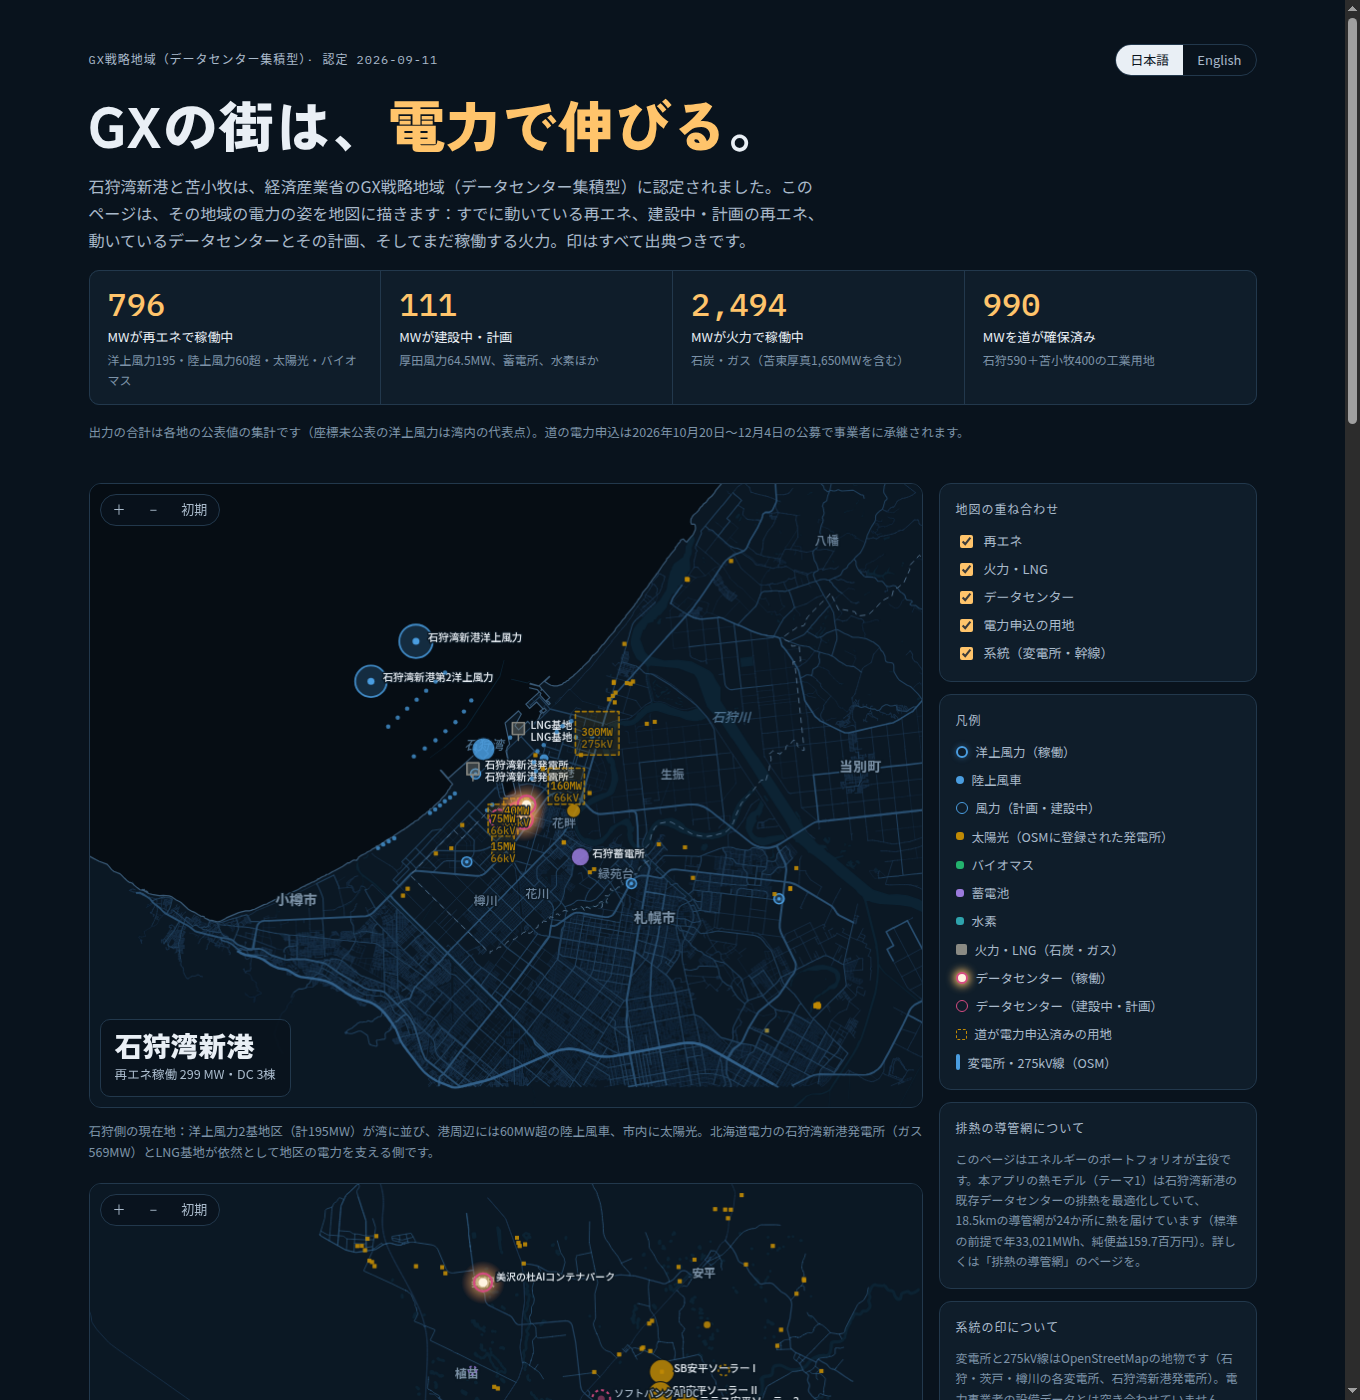
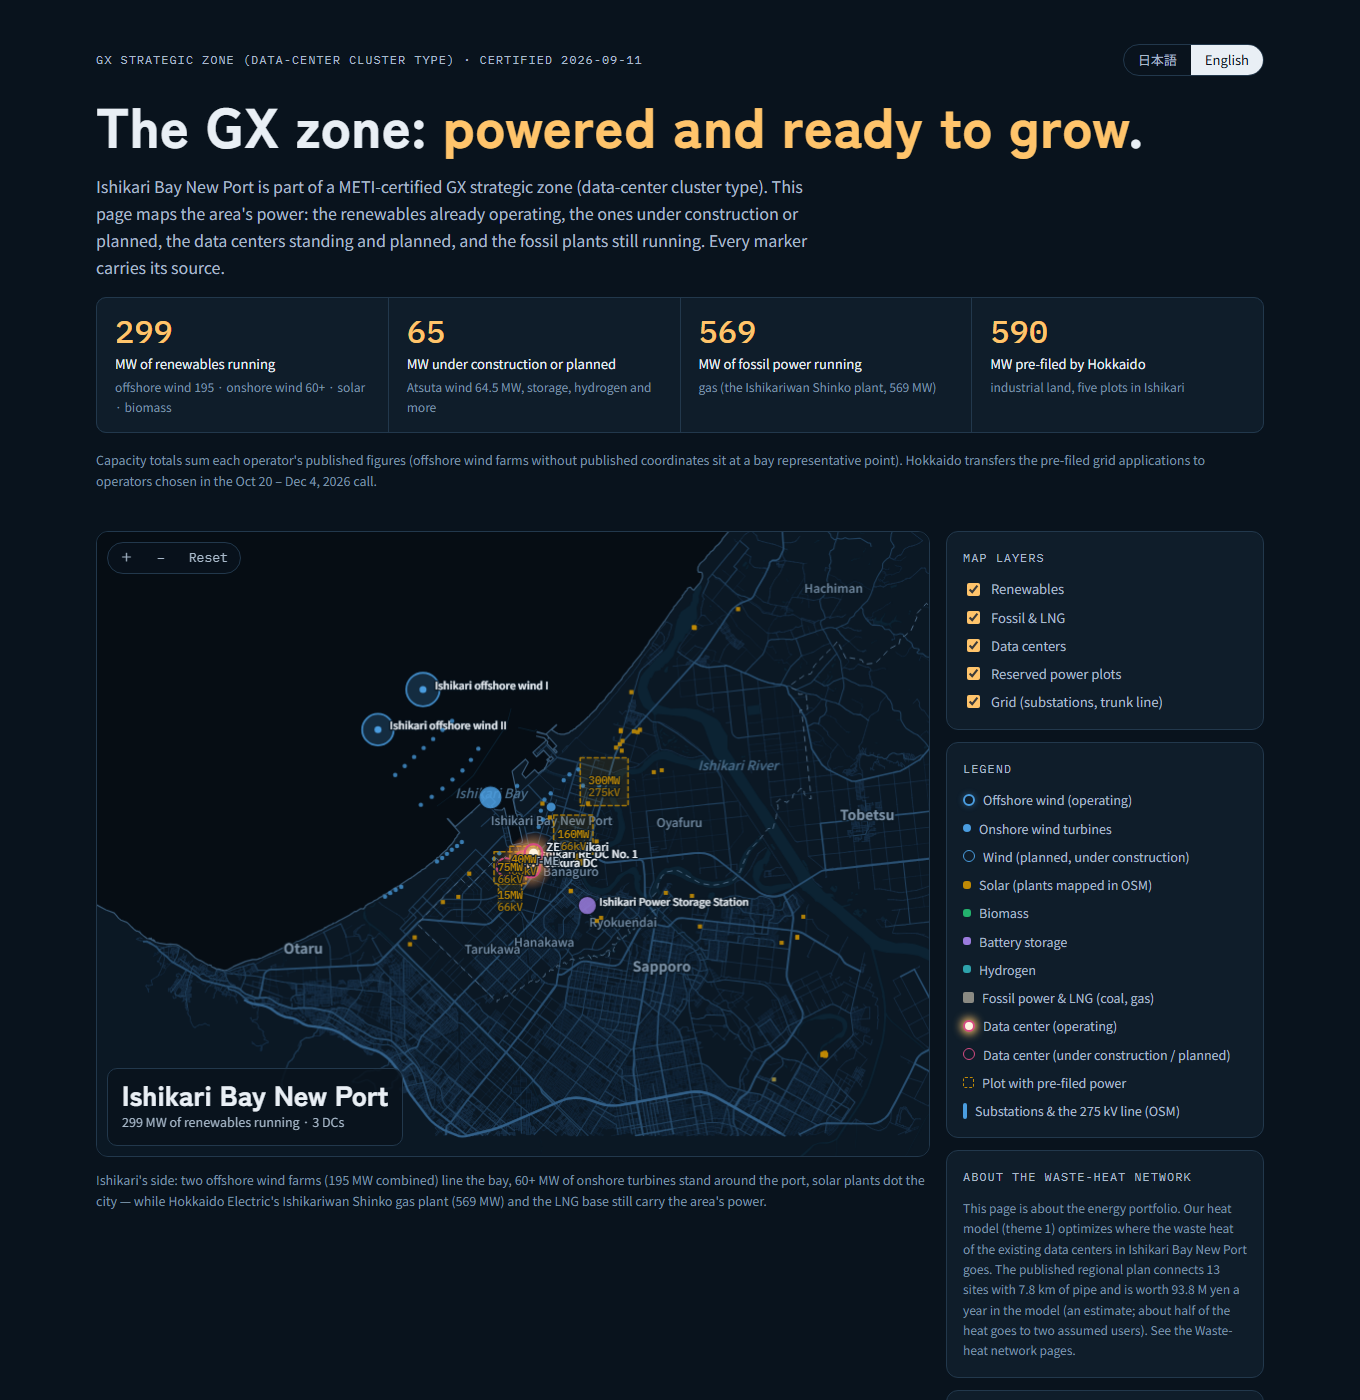
GX overlay: the README figure shows the Ishikari page; the heat note cites the published plan (#41)
- docs/img/gx-overlay.png and gx-overlay-ja.png: taken from the page as merged (Ishikari only), one per language
- The note on the heat network (page, briefing document, exporter) cites the published regional plan: 13 sites, 7.8 km of pipe, 93.8 M yen a year, an estimate with about half of the heat going to two assumed users
- docs/gx-zone-portfolio.md: five plots, not six; the source table lists the Ishikari items only
- Both READMEs: eight app pages; the figure carries the OpenStreetMap credit

diff --git a/web/gx_zone/index.html b/web/gx_zone/index.html
@@ -223,7 +223,7 @@ const T = {
     showDc: "データセンター", showPlot: "電力申込の用地", showGrid: "系統（変電所・幹線）", showRe: "再エネ", showFossil: "火力・LNG",
     zoneNote: "石狩側の現在地：洋上風力2基地区（計195MW）が湾に並び、港周辺には60MW超の陸上風車、市内に太陽光。北海道電力の石狩湾新港発電所（ガス569MW）とLNG基地が依然として地区の電力を支える側です。",
     heatTitle: "排熱の導管網について",
-    heatNote: "このページはエネルギーのポートフォリオが主役です。本アプリの熱モデル（テーマ1）は石狩湾新港の既存データセンターの排熱を最適化していて、18.5kmの導管網が24か所に熱を届けています（標準の前提で年33,021MWh、純便益159.7百万円）。詳しくは「排熱の導管網」のページを。",
+    heatNote: "このページはエネルギーのポートフォリオが主役です。本アプリの熱モデル（テーマ1）は、石狩湾新港の既存データセンターの排熱の使い道を最適化します。公表している地域計画は、13か所を7.8kmの導管でつなぎ、モデル上の価値は年9,380万円です（推計。熱の約半分は、仮定の2か所に向かいます）。詳しくは「排熱の導管網」のページを。",
     gridTitle: "系統の印について",
     gridNote: "変電所と275kV線はOpenStreetMapの地物です（石狩・茨戸・樽川の各変電所、石狩湾新港発電所）。電力事業者の設備データとは突き合わせていません。名称のない変電所が1つ含まれます。",
     tableTitle: "印の出典一覧",
@@ -266,7 +266,7 @@ const T = {
     zoneNote: "Ishikari's side: two offshore wind farms (195 MW combined) line the bay, 60+ MW of onshore turbines stand around the port, solar plants dot the city — while Hokkaido Electric's Ishikariwan Shinko gas plant (569 MW) and the LNG base still carry the area's power.",
     mbSub: (reMw, dcN) => `${reMw} MW of renewables running · ${dcN} DCs`,
     heatTitle: "About the waste-heat network",
-    heatNote: "This page is about the energy portfolio. Our heat model (theme 1) optimizes the waste heat of the existing data centers in Ishikari Bay New Port: an 18.5 km network serving 24 users (33,021 MWh/yr, ¥160 M net in the base case). See the Waste-heat network page for that story.",
+    heatNote: "This page is about the energy portfolio. Our heat model (theme 1) optimizes where the waste heat of the existing data centers in Ishikari Bay New Port goes. The published regional plan connects 13 sites with 7.8 km of pipe and is worth 93.8 M yen a year in the model (an estimate; about half of the heat goes to two assumed users). See the Waste-heat network pages.",
     gridTitle: "About the grid markers",
     gridNote: "The substations and the 275 kV line are OpenStreetMap features (Ishikari, Ichibato, Tarukawa substations; the Ishikariwan Shinko power station). They are not checked against the grid operator's equipment data. One substation is unnamed in OSM.",
     tableTitle: "Every marker, with its source",

diff --git a/scripts/export_gx_zone.py b/scripts/export_gx_zone.py
@@ -265,10 +265,11 @@ def build() -> dict:
         "energy": energy,
         "reserved": reserved,
         "heat": {"km": Params().max_link_m / 1000, "kpi": kpi,
-                 "note": ("テーマ1の熱モデルは石狩が対象（導管1本8km上限）。最適化した18.5kmの導管網が24か所に"
-                          "熱を届けている。このページの主役はエネルギーのポートフォリオで、導管網は補足。",
-                          "The theme-1 heat model covers Ishikari (8 km candidate-link limit); its optimized 18.5 km "
-                          "network serves 24 users. This page is about the energy portfolio; the heat network is a footnote.")},
+                 "note": ("テーマ1の熱モデルは石狩が対象（導管1本8km上限）。公表している地域計画は13か所を"
+                          "7.8kmの導管でつなぐ（推計）。このページの主役はエネルギーのポートフォリオで、導管網は補足。",
+                          "The theme-1 heat model covers Ishikari (8 km candidate-link limit); its published regional "
+                          "plan connects 13 sites with 7.8 km of pipe (an estimate). This page is about the energy "
+                          "portfolio; the heat network is a footnote.")},
         "sources": {"meti": METI_RELEASE, "ishikari": ISHIKARI_ZONE, "kobo": KOBO, "gxpf": GXPF,
                     "marubeni": MARUBENI, "hokuden": HOKUDEN, "city_plan": CITY_PLAN_URL},
     }

diff --git a/README.md b/README.md
@@ -247,7 +247,7 @@ The app's *Renewable matching* page lets you set the load, the contract, a batte
 
 ![The GX strategic zone at Ishikari Bay New Port: the two offshore wind farms in the bay, onshore turbines, solar plants and the fossil plants; the data centers standing and planned, and the plots where Hokkaido has pre-filed grid power](docs/img/gx-overlay.png)
 
-*Ishikari Bay New Port is part of a METI-certified GX strategic zone (data-center cluster type, 2026-09-11). The page maps the area's power: the renewables already operating (195 MW of offshore wind in the bay, 60+ MW of onshore turbines, named solar plants), the ones under construction or planned (the 64.5 MW Atsuta wind farm, battery storage), the data centers standing and planned, the five plots where Hokkaido has pre-filed 590 MW of grid power — and the fossil plants still running. Renewable capacity comes from the TSH GX Information Platform (tsh-gxpf.jp) and operator press releases; plant geometry comes from OpenStreetMap. Nothing is drawn at an invented location — unpublished sites sit at GSI district points or bay representative points and say so.*
+*Ishikari Bay New Port is part of a METI-certified GX strategic zone (data-center cluster type, 2026-09-11). The page maps the area's power: the renewables already operating (195 MW of offshore wind in the bay, 60+ MW of onshore turbines, named solar plants), the ones under construction or planned (the 64.5 MW Atsuta wind farm, battery storage), the data centers standing and planned, the five plots where Hokkaido has pre-filed 590 MW of grid power — and the fossil plants still running. Renewable capacity comes from the TSH GX Information Platform (tsh-gxpf.jp) and operator press releases; plant geometry comes from OpenStreetMap. Nothing is drawn at an invented location — unpublished sites sit at GSI district points or bay representative points and say so. Map data © OpenStreetMap contributors (ODbL).*
 
 The app's *GX overlay* page renders this from `uv run python scripts/export_gx_zone.py`. Sources and values: [docs/data-sources.md](docs/data-sources.md), [docs/gx-zone-portfolio.md](docs/gx-zone-portfolio.md).
 
@@ -371,7 +371,7 @@ uv run pytest                                          # tests; those that need 
 
 **The app** (`uv run streamlit run app/streamlit_app.py`; the data each page needs: [app/README.md](app/README.md))
 - One language switch in the sidebar (日本語 / English) sets every page; the choice is kept in the URL (`?lang=`).
-- Seven pages: *Waste-heat network* (Warm Ishikari: model v1 for one data center, every assumption adjustable, and the live simulation), *Animation* (Warm Ishikari Map), *Proposals* (Warm Ishikari Proposals), *Weather years*, *Grid hosting capacity*, *Siting* and *Renewable matching*.
+- Eight pages: *Waste-heat network* (Warm Ishikari: model v1 for one data center, every assumption adjustable, and the live simulation), *Animation* (Warm Ishikari Map), *Proposals* (Warm Ishikari Proposals), *Weather years*, *Grid hosting capacity*, *Siting*, *Renewable matching* and *GX overlay*.
 
 **Live simulation (the app's Warm Ishikari page)**
 - Type a what-if in either language ("電気料金を2倍にして" / "double the electricity price"); the LLM

diff --git a/docs/gx-zone-portfolio.md b/docs/gx-zone-portfolio.md
@@ -80,8 +80,9 @@ The grid behind it (OpenStreetMap, not checked against the operator's data): 石
 the 石狩湾新港発電所 275 kV switching station, and the 石狩湾新港発電所線 corridor — the 275 kV
 hook the future 300 MW site hangs off.
 
-Waste-heat footnote: the theme-1 model of this app optimizes the existing data centers' heat — an
-18.5 km pipe network serving 24 users (33,021 MWh/yr, ¥160 M net in the base case).
+Waste-heat footnote: the theme-1 model of this app optimizes where the existing data centers' heat
+goes. The published regional plan connects 13 sites with 7.8 km of pipe and is worth 93.8 M yen a
+year in the model (an estimate; about half of the heat goes to two assumed users; see the README).
 
 ---
 
@@ -91,8 +92,8 @@ Waste-heat footnote: the theme-1 model of this app optimizes the existing data c
 |---|---|---|
 | METI press release (2026-09-11) | the GX strategic zone certification itself | https://www.meti.go.jp/press/2026/09/20260911006.html |
 | Ishikari City zone page | certification, 3 existing DCs, the recruitment window | https://www.city.ishikari.hokkaido.jp/sangyo/yuchi/1007457.html |
-| Hokkaido recruitment guidelines (Oct 2026) | the six plots, MW, kV, connection years, areas, prices | https://www.pref.hokkaido.lg.jp/kz/ssg/272100.html |
-| TSH GX Information Platform | 北ガス風力, 厚田風力, 石狩蓄電所, 苫東バイオマス, TJDソーラー, the storage and hydrogen projects | https://tsh-gxpf.jp/en/business/ |
+| Hokkaido recruitment guidelines (Oct 2026) | the five plots, MW, kV, connection years, areas, prices | https://www.pref.hokkaido.lg.jp/kz/ssg/272100.html |
+| TSH GX Information Platform | 北ガス風力, 厚田風力, 石狩蓄電所 | https://tsh-gxpf.jp/en/business/ |
 | Marubeni press release (2024-03-28) | 石狩湾新港第2洋上風力 83 MW | https://www.marubeni.com/ja/news/2024/release/00092/ |
 | Hokkaido Electric press release | 石狩湾新港地域洋上風力 112 MW, Jul 2024 | https://www.hokkaido-electric.co.jp/pressrelease/detail/4319 |
 | Ishikari leading-area plan (rev. 2025-07-04) | 60+ MW onshore wind, the biomass plan, the RE zone, the offshore promising area | https://www.city.ishikari.hokkaido.jp/_res/projects/default_project/_page_/001/002/422/senko20250704.pdf |
